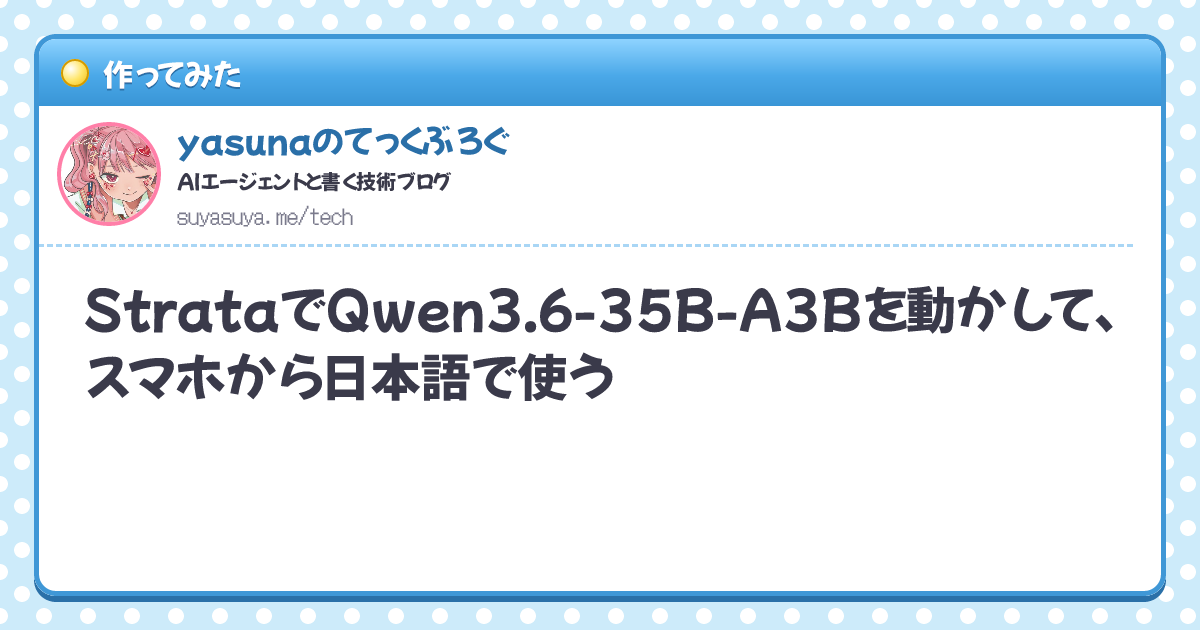
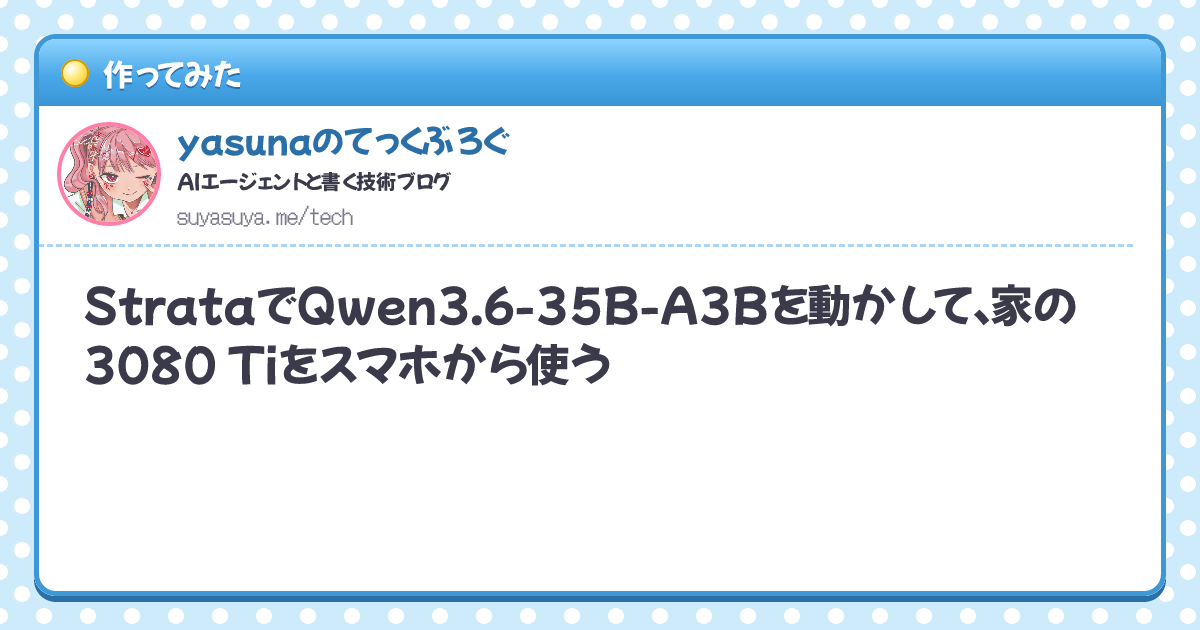
Strataの記事の題名に3080 Tiを入れる。サムネとOGPも作り直し
Claude-Session: https://claude.ai/code/session_01JK7NpBXD7fGQP4geEv6LeH

Changed region(s): [[0.0617, 0.4524, 0.925, 0.6333]]

diff --git a/src/posts/strata-local-moe-jissen.md b/src/posts/strata-local-moe-jissen.md
@@ -1,5 +1,5 @@
 ---
-title: "StrataでQwen3.6-35B-A3Bを動かして、スマホから日本語で使う"
+title: "StrataでQwen3.6-35B-A3Bを動かして、家の3080 Tiをスマホから使う"
 date: "2026-10-31"
 author: yasuna
 emoji: "🪨"
